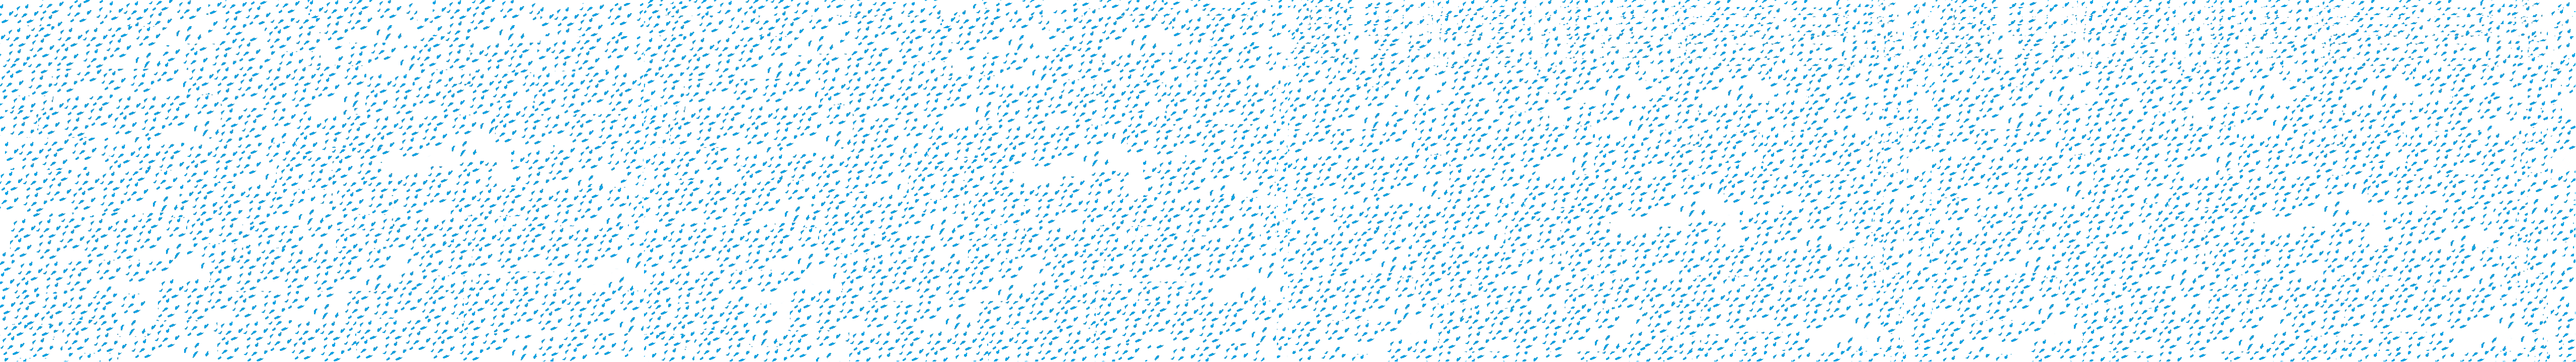
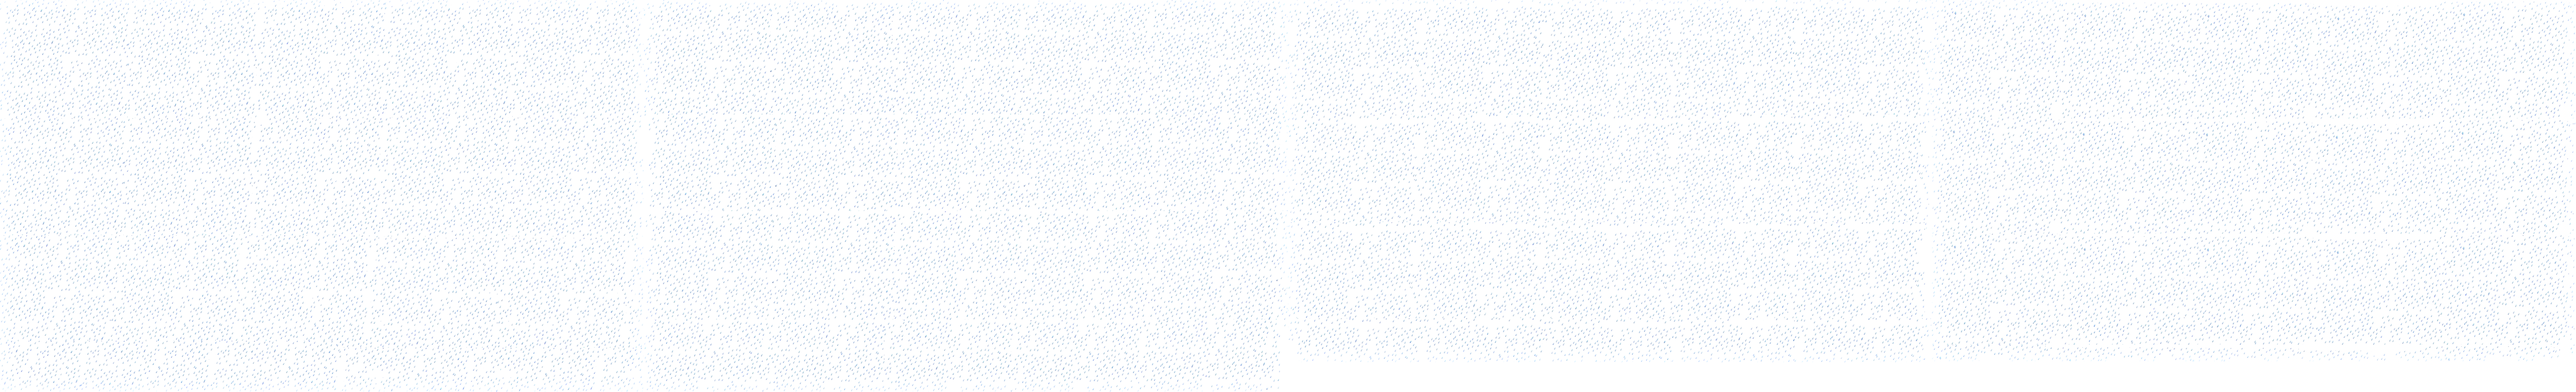
change rain texture, powerups respawn logic, and remove some wanted lines

Changed region(s): [[0.0, 0.0, 1.0, 1.0]]

diff --git a/game.cpp b/game.cpp
@@ -69,10 +69,8 @@ void Game::initMap() {
 
     // rain map
     rainEntity.addComponent<TransformComponent>(0.0f, 0.0f, SCREEN_WIDTH, SCREEN_HEIGHT);
-    rainBg = Graphics::loadTexture("imgs/menu/pause_background.png"); // same as the pause bg =))
     rainEntity.addComponent<RainComponent>(&camera.x, &camera.y, &check_weather);
 
-    lightningTexture = Graphics::loadTexture("imgs/ob/lightning.png");
 }
 
 void Game::initChunks() {
@@ -135,6 +133,7 @@ void Game::init() {
     initChunks();
 }
 
+
 void Game::reInit() {
     player.getComponent<TransformComponent>().setPos(START_POSITION_X, START_POSITION_X);
     player.getComponent<TransformComponent>().angle = 0.0f;
@@ -163,6 +162,7 @@ void Game::reInit() {
 
     Audio::play(backgroundMusic);
 }
+
 
 
 // events
@@ -308,16 +308,13 @@ void Game::powerUpsUpdate() {
 
     for (auto& p : powerUps) {
         if (p->getComponent<TransformComponent>().position.x < 0) {
-            int xpos = rand() % MAP_WIDTH + 100;
-            int ypos = rand() % MAP_HEIGHT + 100;
-            while (xpos == p->getComponent<TransformComponent>().position.x) {
-                int xpos = rand() % MAP_WIDTH + 100;
-            }
-            while (ypos == p->getComponent<TransformComponent>().position.y) {
-                int ypos = rand() % MAP_WIDTH + 100;
-            } // add 100 so it dont spawn too near the bound
-    
-            p->getComponent<TransformComponent>().setPos(rand() % MAP_WIDTH, rand() % MAP_HEIGHT);
+            // make sure power ups dont spawn too near the border
+            int xpos = POWER_SPAWN_BORDER + rand() % (MAP_WIDTH - 2 * POWER_SPAWN_BORDER);
+            int ypos = POWER_SPAWN_BORDER + rand() % (MAP_HEIGHT - 2 * POWER_SPAWN_BORDER);
+            
+            //std::cerr << xpos << " " << ypos << '\n';
+
+            p->getComponent<TransformComponent>().setPos(xpos, ypos); 
 	        p->getComponent<ColliderComponent>().eneable();
         }
     }
@@ -397,7 +394,6 @@ void Game::render() {
     
     player.render();
     rainEntity.render();
-    //renderRain();
 
     for (auto& ui : UIS) {
         if(ui.second->isActive()) ui.second->render();

diff --git a/game.h b/game.h
@@ -22,9 +22,6 @@ private:
 	float timeElapsed = 0.0f;
 	float incrementInterval = 2.0f;
 
-	SDL_Texture* rainBg;
-	SDL_Texture* lightningTexture;
-
 	Mix_Chunk* healChunk;
 	Mix_Chunk* ghostChunk;
 	Mix_Chunk* explosionChunk;
@@ -35,19 +32,10 @@ private:
 	PauseMenu* pauseMenu;
 	DeathMenu* deathMenu;
 
-	int deathScenceTime = DEATH_SCENCE_TIME; 
+	int deathScenceTime = DEATH_SCENCE_TIME;
+	bool check_weather = false;
 	bool game_over = false;
 	bool drifting = false;
-	
-	int rainBg_transparency = 0;
-	int lightning_trasparency = 0;
-	
-	bool raining = false;
-	bool check_weather = false;
-	bool raining_before = false;
-	bool lightningInc = false;
-	bool lightningStriking = false;
-
 public:
 	Game();
 	~Game();
@@ -60,7 +48,6 @@ public:
 	void initUI();
 	void initPowerUps();
 	void initChunks();
-	void reinitWeather();
 	void init() override;
 	void reInit() override;
 

diff --git a/defs.h b/defs.h
@@ -43,6 +43,7 @@ const int SPRITE_DELAY = 300;
 const float BOUND_BLOCK = PLAYER_SPEED;
 const int PLAYER_BASE_HEALTH = 77;
 const int SCORE_POS = 1200;
+const int POWER_SPAWN_BORDER = 500;
 
 const int NO_RANDOM_START_FRAME = 0;
 
